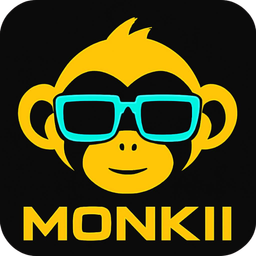
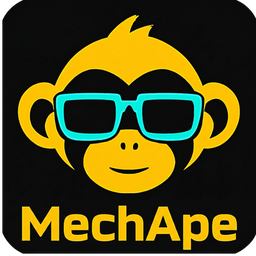
Rebrand the Lab exhibit from MONKII to MechApe, drop the Ollama claims
The name collided with an existing fitness brand, and the app no longer
needs Ollama — it ships its own llama.cpp engine — so both the Lab card
and the studio modal were advertising something that doesn't exist.

The card and modal carry their own hardcoded copy in render-callbacks.php,
so editing the WordPress pages does not touch them; this is the only place
that fixes what visitors actually see.

Left alone on purpose: the monkii-* CSS classes, the #monkii hash, the
data-open-monkii hook, and the haunted-tech/monkii-modal block slug. That
slug is baked into the saved parts/footer.html template part and the hash
is a published URL, so renaming them breaks the modal for no visible gain.

Also points deploy.sh at codalanguez/haunted-tech-wptheme — it still named
the pre-rename repo path.

diff --git a/style.css b/style.css
@@ -4,7 +4,7 @@ Theme URI:         https://codalanguez.com
 Author:            Coda Languez
 Author URI:        https://codalanguez.com
 Description:       A cyber-deco WordPress theme for Coda Languez — dark romance, web novels, and morally ambiguous protagonists. High-contrast black + gold + oxblood, with art-deco frames, animated CRT scanlines, and live glitch effects on every heading. Built for the codalanguez.com book/web-novel/chapter custom post types (via ACF).
-Version:           0.13.9
+Version:           0.14.0
 Requires at least: 6.4
 Tested up to:      6.6
 Requires PHP:      7.4

diff --git a/assets/main.css b/assets/main.css
@@ -3767,7 +3767,7 @@ body.commission-open .static-burst { display: none !important; }
   .lab-foot a { color: var(--gold); text-decoration: none; border-bottom: 1px solid var(--border); }
   .lab-foot a:hover { color: var(--gold-bright); border-color: var(--gold-bright); text-shadow: 0 0 8px rgba(255,212,0,0.5); }
 
-  /* ============ MONKII MODAL (singleton) ============ */
+  /* ============ MECHAPE MODAL (singleton) ============ */
   .monkii-modal {
     position: fixed; inset: 0;
     background: rgba(0,0,0,0.94);

diff --git a/assets/main.js b/assets/main.js
@@ -134,7 +134,7 @@
     });
   })();
 
-  // ===== MONKII modal: open from any [data-open-monkii] OR any <a> whose href
+  // ===== MechApe modal: open from any [data-open-monkii] OR any <a> whose href
   // resolves to #monkii (same delegated pattern as the About modal). Close on
   // Esc / × / backdrop. =====
   (function(){

diff --git a/inc/render-callbacks.php b/inc/render-callbacks.php
@@ -757,15 +757,15 @@ function ht_render_lab($attributes = []) {
       <div class="services-grid lab-grid">
         <div class="service-card lab-card" id="lab-monkii">
           <div class="service-icon-area lab-icon-area">
-            <img class="lab-icon" src="<?php echo esc_url($monkii_icon); ?>" alt="MONKII app icon" loading="lazy" width="256" height="256">
+            <img class="lab-icon" src="<?php echo esc_url($monkii_icon); ?>" alt="MechApe app icon" loading="lazy" width="256" height="256">
           </div>
           <div class="service-meta">
             <div class="service-eyebrow">Local &middot; Private &middot; Yours</div>
-            <div class="service-title">MONKII</div>
-            <div class="service-desc">A local, private LLM studio for Ollama &mdash; projects, Claude-style skills, and live file knowledge. Out of the box, not one syllable of your conversations ever leaves your machine.</div>
+            <div class="service-title">MechApe</div>
+            <div class="service-desc">A local, private LLM studio that brings its own engine &mdash; projects, Claude-style skills, and live file knowledge. Out of the box, not one syllable of your conversations ever leaves your machine.</div>
             <div class="lab-actions">
               <a href="#monkii" class="service-btn" data-open-monkii>Enter the Studio</a>
-              <a href="https://github.com/codalanguez/Monkii" class="service-btn lab-btn-ghost" target="_blank" rel="noopener">GitHub</a>
+              <a href="https://github.com/codalanguez/MechApe" class="service-btn lab-btn-ghost" target="_blank" rel="noopener">GitHub</a>
             </div>
           </div>
         </div>
@@ -790,8 +790,10 @@ function ht_render_lab($attributes = []) {
 }
 
 /* ============================================================
- * MONKII MODAL — singleton, included in footer part.
- * Opens from any [data-open-monkii] trigger or the #monkii hash.
+ * MECHAPE MODAL — singleton, included in footer part.
+ * Opens from any [data-open-monkii] trigger or the #monkii hash. Those hooks
+ * keep the old product name on purpose: the block slug is recorded in the
+ * saved footer template part, and the #monkii hash is a published URL.
  * ============================================================ */
 function ht_render_monkii_modal($attributes = []) {
     $icon = HAUNTED_TECH_URI . '/assets/monkii-icon.png';
@@ -799,15 +801,15 @@ function ht_render_monkii_modal($attributes = []) {
     ob_start(); ?>
     <div class="monkii-modal" id="monkii-modal" role="dialog" aria-modal="true" aria-labelledby="monkii-name" aria-hidden="true" tabindex="-1">
       <div class="monkii-frame">
-        <button class="monkii-close" aria-label="Close MONKII studio">&times;</button>
+        <button class="monkii-close" aria-label="Close MechApe studio">&times;</button>
         <div class="monkii-visual" style="background-image: url('<?php echo esc_url($shot); ?>');">
           <div class="monkii-visual-caption">// broadcasting from a machine near you</div>
         </div>
         <div class="monkii-meta">
           <div class="monkii-meta-head">
             <div class="monkii-eyebrow"><img class="monkii-badge" src="<?php echo esc_url($icon); ?>" alt="" aria-hidden="true" width="256" height="256"><span>From the Lab</span></div>
-            <h2 class="monkii-name" id="monkii-name" data-text="MONKII">MONKII</h2>
-            <div class="monkii-title">A Local, Private LLM Studio for Ollama</div>
+            <h2 class="monkii-name" id="monkii-name" data-text="MechApe">MechApe</h2>
+            <div class="monkii-title">A Local, Private LLM Studio &mdash; No Separate Install</div>
             <div class="monkii-divider"></div>
           </div>
           <div class="monkii-body-wrap">
@@ -817,15 +819,15 @@ function ht_render_monkii_modal($attributes = []) {
                 <li><strong>Projects</strong> &mdash; instructions, knowledge files, skills &amp; chats bundled per obsession, each with its own model memory</li>
                 <li><strong>Skills</strong> &mdash; Claude-format SKILL.md instruction sets; toggle per project or summon mid-message with <code>/</code></li>
                 <li><strong>Live file knowledge</strong> &mdash; attach files or folders, read fresh from disk, indexed with on-device embeddings</li>
-                <li><strong>Ollama, domesticated</strong> &mdash; auto-detection, one-click model switching, honest health indicator</li>
+                <li><strong>Its own engine</strong> &mdash; llama.cpp ships inside; GPU auto-detection, one-click model switching, honest health indicator</li>
                 <li><strong>Seven themes</strong> &mdash; four dark, three light, all WCAG AA</li>
                 <li><strong>Remote models</strong> &mdash; strictly opt-in OpenRouter support, loudly badged, mildly judged</li>
               </ul>
-              <p class="monkii-fine">Free &middot; MIT licensed &middot; Node.js 18+ and <a href="https://ollama.com" target="_blank" rel="noopener">Ollama</a> required</p>
+              <p class="monkii-fine">Free &middot; MIT licensed &middot; Node.js 18+ required &middot; the model engine comes with it</p>
             </div>
           </div>
           <div class="monkii-meta-foot">
-            <a class="service-btn" href="https://github.com/codalanguez/Monkii" target="_blank" rel="noopener">Get it on GitHub</a>
+            <a class="service-btn" href="https://github.com/codalanguez/MechApe" target="_blank" rel="noopener">Get it on GitHub</a>
             <a class="service-btn lab-btn-ghost" href="<?php echo esc_url(home_url('/monkii/')); ?>">Take the Full Tour</a>
           </div>
         </div>

diff --git a/inc/blocks.php b/inc/blocks.php
@@ -36,7 +36,7 @@ add_action('init', function () {
         ['slug' => 'gallery',       'title' => 'Gallery',        'render' => 'ht_render_gallery',      'icon' => 'format-gallery'],
         ['slug' => 'newsletter',    'title' => 'Newsletter',     'render' => 'ht_render_newsletter',   'icon' => 'email-alt'],
         ['slug' => 'lab',           'title' => 'The Lab',        'render' => 'ht_render_lab',          'icon' => 'admin-tools'],
-        ['slug' => 'monkii-modal',  'title' => 'MONKII Modal (singleton)', 'render' => 'ht_render_monkii_modal', 'icon' => 'fullscreen-alt'],
+        ['slug' => 'monkii-modal',  'title' => 'MechApe Modal (singleton)', 'render' => 'ht_render_monkii_modal', 'icon' => 'fullscreen-alt'],
         ['slug' => 'lightbox',      'title' => 'Lightbox',       'render' => 'ht_render_lightbox',     'icon' => 'fullscreen-alt'],
         ['slug' => 'about-modal',   'title' => 'About Modal',    'render' => 'ht_render_about_modal',  'icon' => 'admin-users'],
         ['slug' => 'about-page-hero', 'title' => 'About Page Hero', 'render' => 'ht_render_about_page_hero', 'icon' => 'admin-users'],

diff --git a/functions.php b/functions.php
@@ -20,7 +20,7 @@
 
 if (!defined('ABSPATH')) { exit; }
 
-define('HAUNTED_TECH_VERSION', '0.13.9');
+define('HAUNTED_TECH_VERSION', '0.14.0');
 define('HAUNTED_TECH_DIR', get_template_directory());
 define('HAUNTED_TECH_URI', get_template_directory_uri());
 
